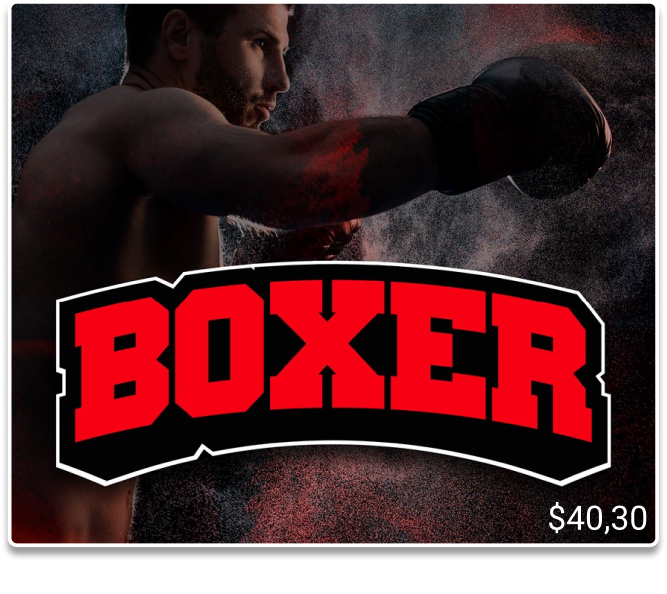
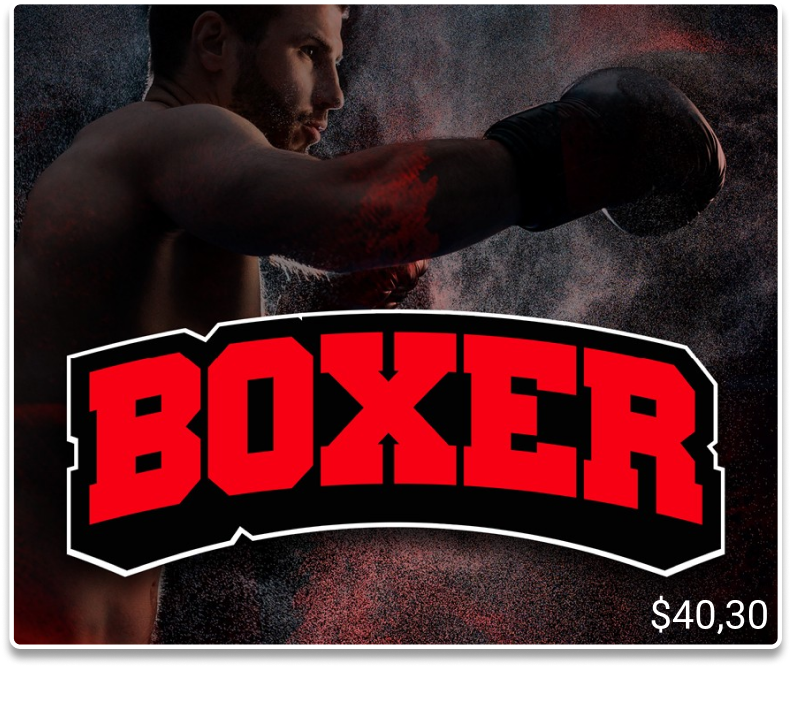
frontpage
finished up frontpage for desktop size

diff --git a/css/styles_index.css b/css/styles_index.css
@@ -128,9 +128,6 @@ header {
     margin-right: 20px;
 }
 
-.boxer-weekly-offer-desktop {
-    display: none; 
-}
 
 .boxer-weekly-offer-mobile {
     position: relative; 
@@ -161,13 +158,14 @@ header {
 @media (min-width: 860px) {
 
     body {
-        min-height: 100vh;
+        min-height: 220vh;
         display: flex;
         flex-direction: column;
     }
 
-    .furious-frontpage-mobile {
-        display: none;
+    .boxer-weekly-offer-mobile {
+        width: 400px;
+        top: 400px;
     }
 
     .main-content {
@@ -201,20 +199,6 @@ header {
         visibility: collapse;
     }
 
-
-    .boxer-weekly-offer-desktop {
-        width: 180px;
-        position: relative;
-        left: 200px;
-        top: 80px;
-    }
-    .boxer-weekly-offer-mobile {
-        display: none;
-    }
-
-    .superduper-frontpage-mobile {
-        display: none;
-    }
 
     .footer {
         background-color: #EA9032;
